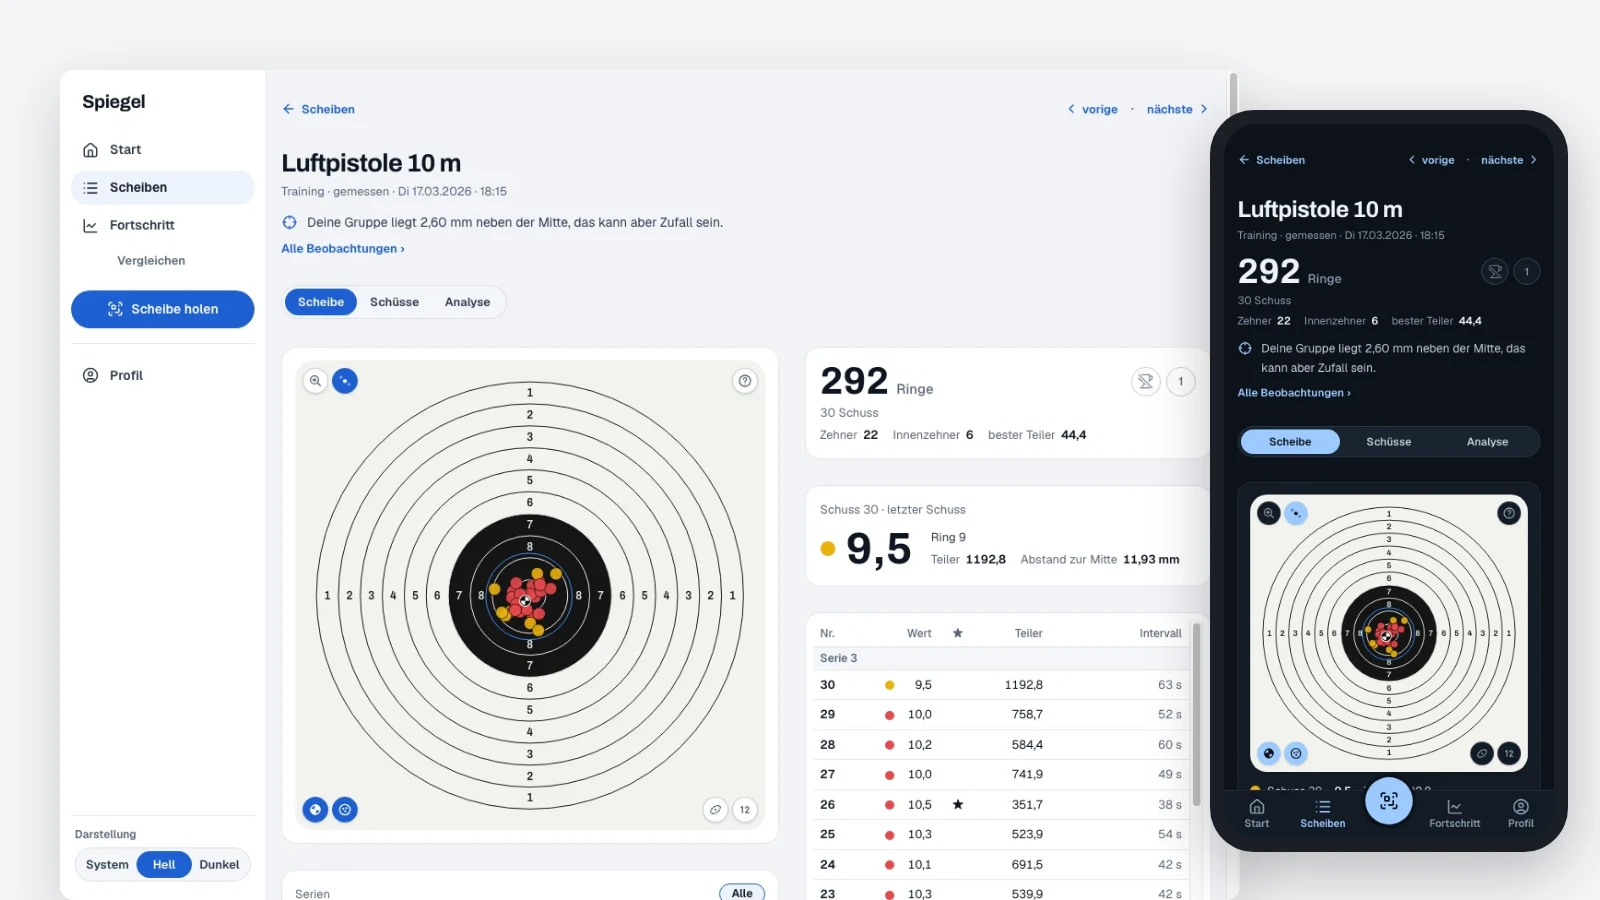
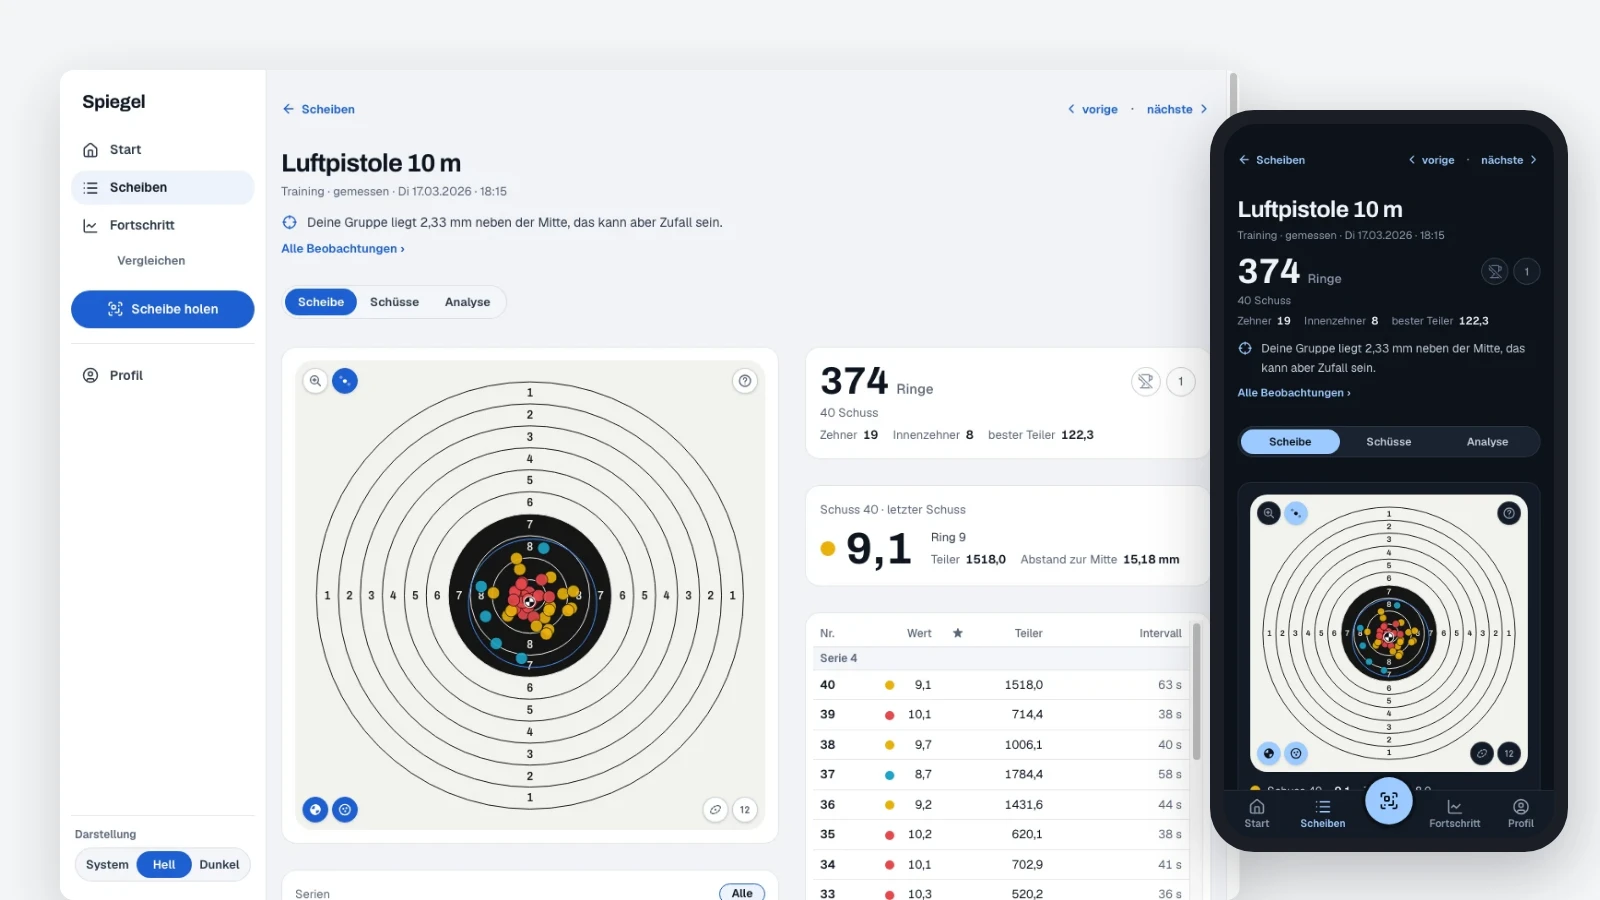
chore(spiegel): demo cards with 40 shots and a club shooter's spread
Air pistol is a 40-shot discipline; the generator's 30-shot trainings and
3.6 mm spread (almost only tens) were fine as test fixtures but wrong as
pictures. generateSeason takes trainingMatch and spreadUm, the demo seeds
ask for 40 shots and 9 mm (about 9 rings per shot), the tests keep their
defaults. README pictures and social preview regenerated.

diff --git a/apps/spiegel/test/generate.ts b/apps/spiegel/test/generate.ts
@@ -39,13 +39,23 @@ export interface SeasonOptions {
   ownerId: string
   /** ScheibenIDs ab hier, fortlaufend */
   scheibenIdBase: number
+  /**
+   * Wertungsschüsse eines Trainings mit Probe; 30 für die Tests, die eine Scheibe unter der Schusszahl der Disziplin
+   * brauchen, 40 für die Demo-Scheiben, bei denen ein Training das volle Programm der Luftpistole zeigt
+   */
+  trainingMatch?: number
+  /**
+   * Streuung je Achse in µm (Sigma, je Scheibe leicht anders); 3600 für die Tests (fast alles Zehner und Neuner),
+   * 9000 für die Demo-Scheiben: ein guter Vereinsschütze mit rund 9 Ringen im Schnitt, nicht über Weltrekord
+   */
+  spreadUm?: number
 }
 
 type Shape = { kind: "training" | "competition"; probe: number; match: number }
 
-function shapeOf(rand: () => number): Shape {
+function shapeOf(rand: () => number, trainingMatch: number): Shape {
   const r = rand()
-  if (r < 0.6) return { kind: "training", probe: 6, match: 30 }
+  if (r < 0.6) return { kind: "training", probe: 6, match: trainingMatch }
   if (r < 0.85) return { kind: "training", probe: 25, match: 0 }
   return { kind: "competition", probe: 10, match: 40 }
 }
@@ -63,9 +73,10 @@ export function generateSeason(options: SeasonOptions): GeneratedCard[] {
     const evening = Math.floor(i / 3)
     const startedAtMs =
       options.firstMs + evening * options.everyDays * DAY_MS + (i % 3) * 45 * 60_000
-    const shape = shapeOf(rand)
+    const shape = shapeOf(rand, options.trainingMatch ?? 30)
     // Form schwankt von Scheibe zu Scheibe, der Mittelpunkt wandert etwas
-    const sigma = 3_600 + 900 * gaussian(rand)
+    const spread = options.spreadUm ?? 3_600
+    const sigma = spread + (spread / 4) * gaussian(rand)
     const mx = 800 * gaussian(rand)
     const my = 800 * gaussian(rand)
     const shots: ShotInput[] = []

diff --git a/apps/spiegel/tools/demo-session.ts b/apps/spiegel/tools/demo-session.ts
@@ -33,7 +33,7 @@ export async function login(page: Page, base: string) {
 }
 
 /**
- * eine Scheibe aus der Liste mit mindestens 30 Wertungsschüssen, die vorige und nächste hat (Blättern, Vergleich), den
+ * eine Scheibe aus der Liste mit mindestens 40 Wertungsschüssen, die vorige und nächste hat (Blättern, Vergleich), den
  * Reiter „Lage“ und keine Probe im Kopf; nur gemessene, damit Blättern und Reiter auf Scheiben mit Schüssen bleiben
  */
 export async function pickCard(page: Page, base: string): Promise<Card> {
@@ -44,7 +44,7 @@ export async function pickCard(page: Page, base: string): Promise<Card> {
   const idOf = (path: string) => /^\/cards\/([^/?#]+)/.exec(path)?.[1] ?? null
   for (const href of hrefs.slice(1)) {
     await page.goto(`${base}${href}`)
-    const fit = await page.ev<boolean>(`$$("#shot-table tr[data-row]").length >= 30 &&
+    const fit = await page.ev<boolean>(`$$("#shot-table tr[data-row]").length >= 40 &&
       !!link("Vorige Scheibe") && !!link("Nächste Scheibe") && !!tab("Lage") &&
       !$$("[data-card-header] *").some((el) => txt(el) === "Probe")`)
     if (!fit) continue
@@ -55,5 +55,5 @@ export async function pickCard(page: Page, base: string): Promise<Card> {
     const previousId = previous ? idOf(previous) : null
     if (id && previousId) return { href, id, previousId }
   }
-  throw new Error("keine passende Scheibe mit 30 Schuss in der Liste des Demo-Kontos")
+  throw new Error("keine passende Scheibe mit 40 Schuss in der Liste des Demo-Kontos")
 }

diff --git a/apps/spiegel/tools/own-cards.ts b/apps/spiegel/tools/own-cards.ts
@@ -158,14 +158,19 @@ export function ownCardSeeds(cards: readonly OwnCard[]): {
 
 const LP_40 = { meytonId: 19210040, name: "LP 40", targetId: "lp-10m" } as const
 
+/** Streuung der Demo-Scheiben: ein guter Vereinsschütze, rund 9 Ringe im Schnitt (`test/generate.ts`) */
+const DEMO_SPREAD_UM = 9_000
+
 /**
- * erfundene Scheiben, wenn keine eigenen da sind: Luftpistole, drei je Abend über ein halbes Jahr, Training mit Probe,
- * nur Probe und Wettkampf (`test/generate.ts`, fester Seed)
+ * erfundene Scheiben, wenn keine eigenen da sind: Luftpistole, drei je Abend über ein halbes Jahr, Training mit Probe
+ * über die 40 Schuss der Disziplin, nur Probe und Wettkampf (`test/generate.ts`, fester Seed)
  */
 export function demoCardSeeds(): OwnCardSeed[] {
   return generateSeason({
     seed: 2026,
     cards: 72,
+    trainingMatch: 40,
+    spreadUm: DEMO_SPREAD_UM,
     firstMs: Date.UTC(2025, 9, 7, 16, 30),
     everyDays: 7,
     sourceId: 0,
@@ -222,6 +227,7 @@ export function demoEnteredSeeds(anchor: {
   const generated = generateSeason({
     seed: 2027,
     cards: 12,
+    spreadUm: DEMO_SPREAD_UM,
     firstMs: anchor.newestMs,
     everyDays: 7,
     sourceId: 0,

diff --git a/vault/operations/github-auftritt.md b/vault/operations/github-auftritt.md
@@ -44,7 +44,9 @@ Spiegel schreibt `docs/screenshots/spiegel-*.webp`, `hero.webp` und `docs/social
 selbst (:3012, :3013); ein Dev-Server im Bild
 zeigte das Dev-Badge von Next. Die Daten ([[adr-029]], Nachtrag: auch die eigenen Daten des Users liegen nicht im
 Repo, also auch nicht als Bild): `seed:own --demo --erfunden` gibt dem Demo-Konto erfundene Scheiben, auch wenn
-`tools/private/own-cards.json` da ist; der Prüfbestand von Ringwerk hat erfundene Namen, das Werkzeug meldet sich als
+`tools/private/own-cards.json` da ist (Luftpistole über die 40 Schuss der Disziplin, Streuung eines guten
+Vereinsschützen mit rund 9 Ringen im Schnitt, `DEMO_SPREAD_UM` in `tools/own-cards.ts`; die Vorgabe des Generators
+für die Tests schießt fast nur Zehner und 30 Schuss, als Bild wäre das über Weltrekord); der Prüfbestand von Ringwerk hat erfundene Namen, das Werkzeug meldet sich als
 Mitglied an und setzt die Überschrift des Wettbewerbs im DOM auf einen Vereinsnamen. Ohne `--erfunden` hängt
 `seed:own --demo` die eigenen Scheiben an das Demo-Konto; danach `seed:own --email` für das eigene Konto.
 Jedes Bild vor dem Commit ansehen: Theme, kein Ladezustand, keine Namen.
